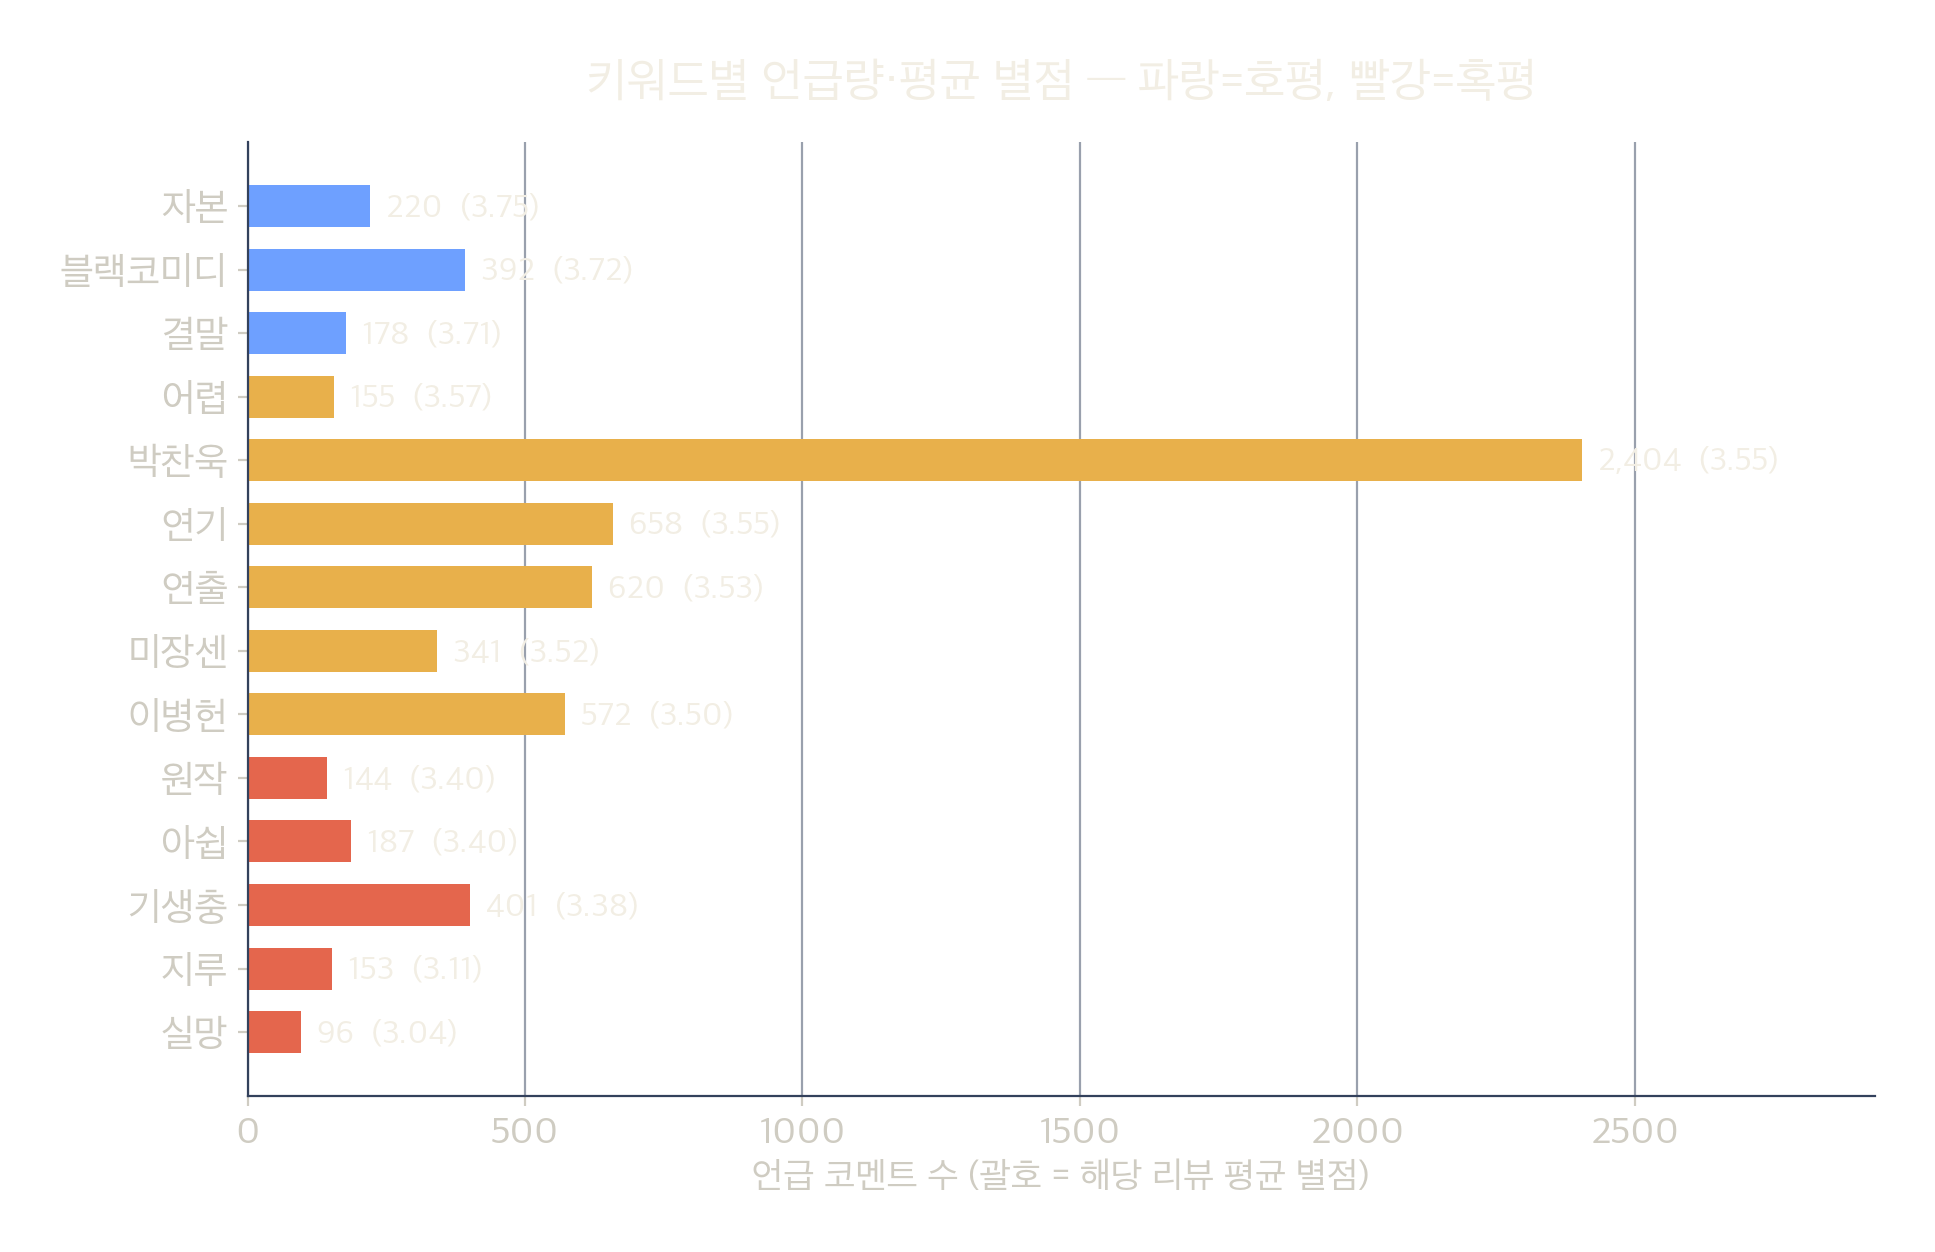
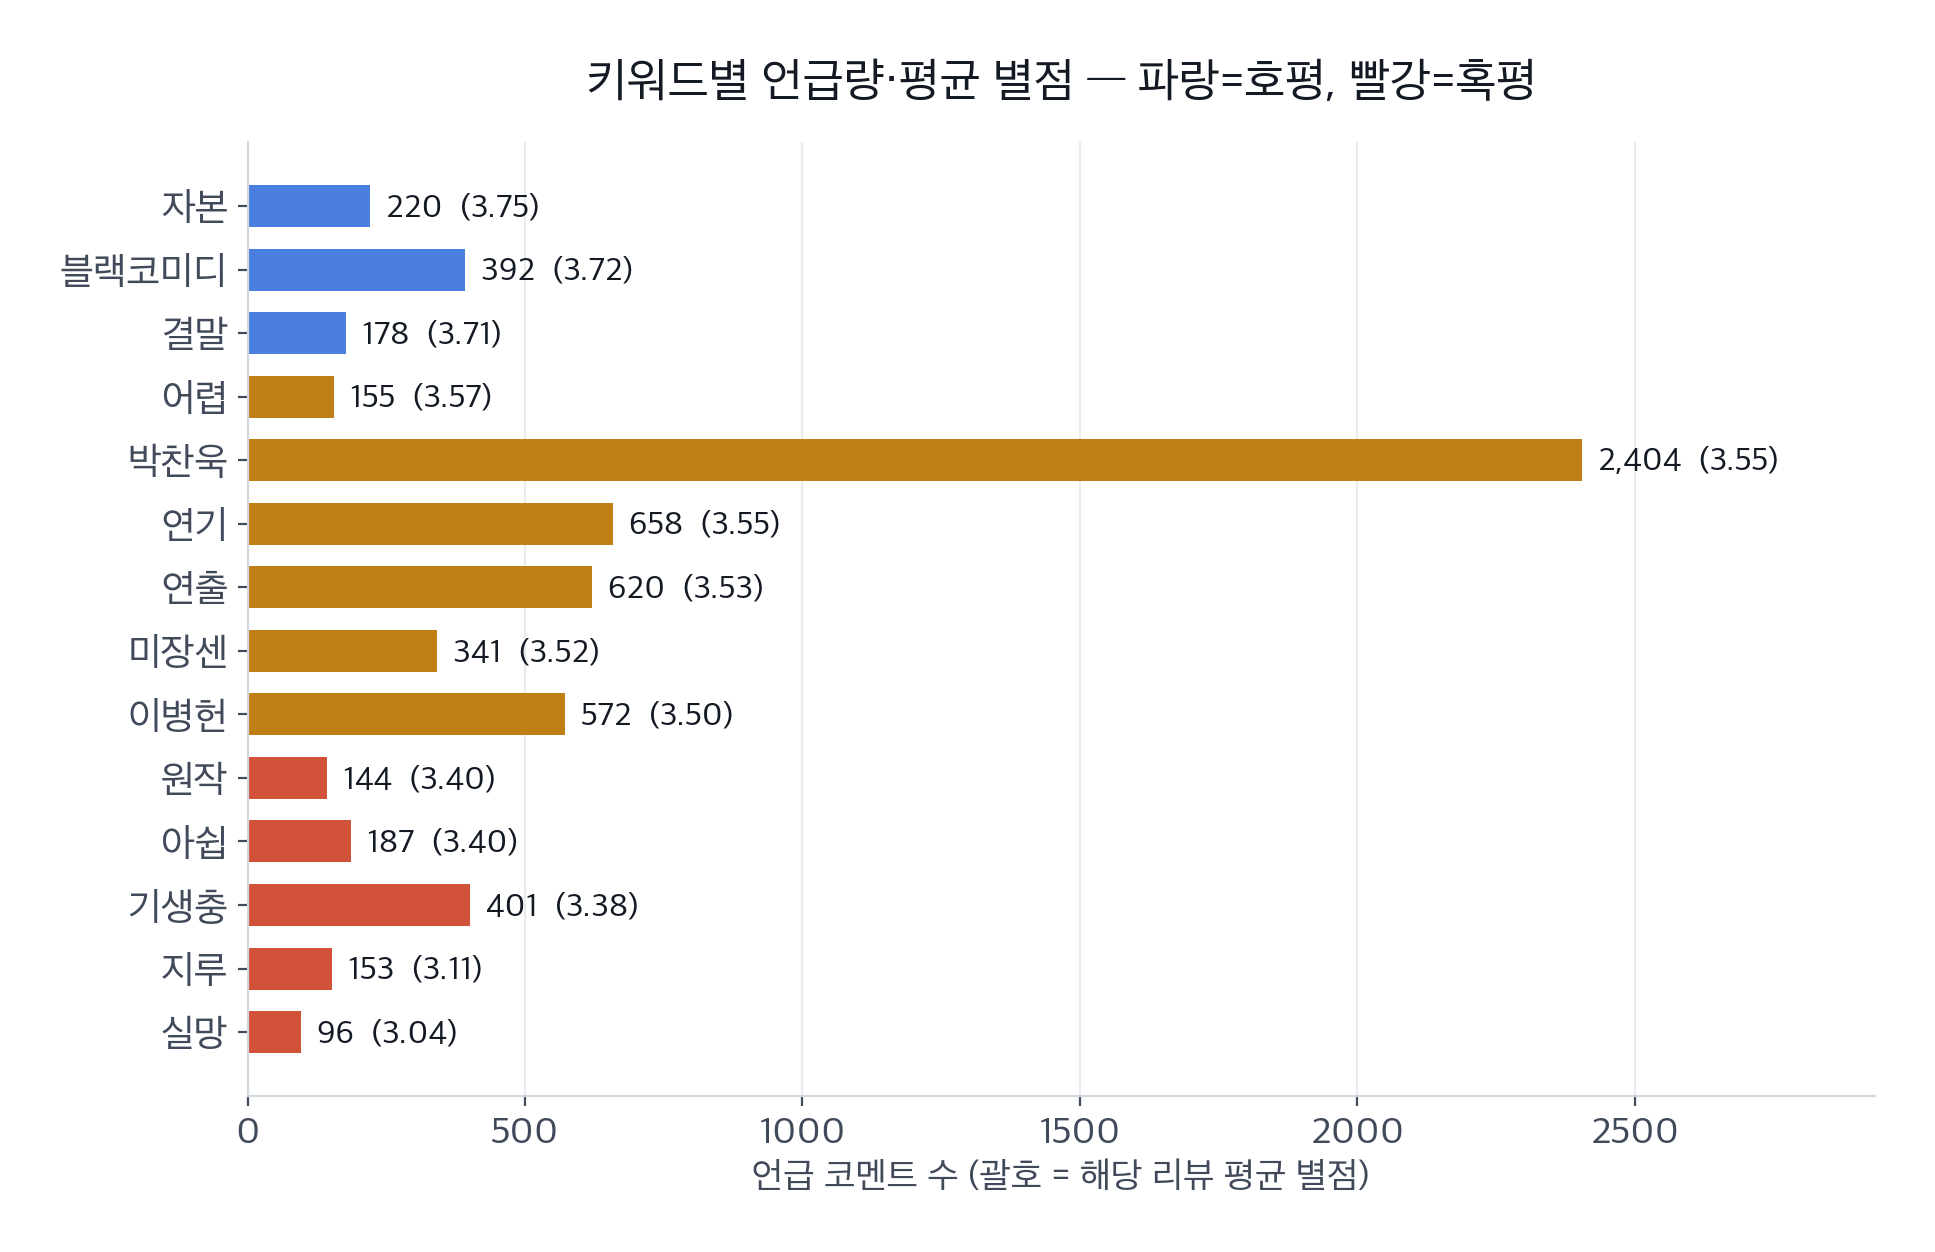
Switch week-05 deck to light content slides with new cover poster
- Replace cover background poster with 어쩔수가없다.jpeg (center 50%/cover)
- Light #f6f7f9 background for slides 2-16 with dark ink/muted/line tokens
- Darken accent/blue/red for text contrast; keep gold chips and statement
- Match film strips, topbar, bottombar and grain to the light slides
- Regenerate charts with a --light palette for the new background

diff --git a/docs/week-05-no-other-choice-reviews/index.html b/docs/week-05-no-other-choice-reviews/index.html
@@ -15,6 +15,7 @@
     --film:#0d1524; --film-2:#0a111d; --panel:#151f31; --panel-2:#101826;
     --ink:#f4f0e6; --ink-soft:#cfccc2; --muted:#8f97a8; --line:rgba(255,255,255,.13);
     --accent:#e8b04b;        /* 골드 — 메인 포인트 */
+    --accent-solid:#e8b04b;  /* 골드 — 칩·배지 배경 */
     --blue:#6ea0ff;          /* 호평/긍정 */
     --red:#e4664d;           /* 혹평/부정 */
     --strip:38px;
@@ -49,10 +50,30 @@
   .progress{position:fixed;top:0;left:0;height:3px;background:linear-gradient(90deg,var(--accent),var(--red));z-index:50;width:0}
   .hint{position:fixed;bottom:14px;left:50%;transform:translateX(-50%);z-index:40;font-family:var(--mono);font-size:12px;color:var(--muted);letter-spacing:.12em}
 
+  /* light chrome while a content slide is active */
+  .film,.topbar,.bottombar{transition:background .45s ease,color .45s ease,border-color .45s ease}
+  body.light .topbar{color:#6f7887;border-bottom-color:rgba(20,26,36,.13);background:linear-gradient(#f6f7f9 70%,rgba(246,247,249,0))}
+  body.light .topbar .dot{background:#c8402a}
+  body.light .bottombar{color:#6f7887}
+  body.light .counter b{color:#141a24}
+  body.light .hint{color:#6f7887}
+  body.light .film{background:#e9edf3;border-color:rgba(20,26,36,.07)}
+  body.light .film::before{background-image:repeating-linear-gradient(to bottom,rgba(20,26,36,.20) 0 14px,transparent 14px 38px)}
+  body.light .progress{background:linear-gradient(90deg,#c08a2f,#c8402a)}
+  body.light::before{opacity:.05;mix-blend-mode:multiply}
+  body.light::after{background:radial-gradient(130% 95% at 50% 40%,transparent 70%,rgba(15,23,42,.07) 100%)}
+
   .stage{position:absolute;inset:0}
   .slide{position:absolute;inset:0;display:flex;flex-direction:column;justify-content:center;
     padding:70px calc(var(--strip) + 4.5vw) 66px;opacity:0;visibility:hidden;overflow:hidden;transition:opacity .5s ease,visibility .5s}
   .slide.active{opacity:1;visibility:visible}
+  /* light slides (2–16) — cover keeps the dark poster */
+  .slide:not(.poster-bg){background:#f6f7f9;color:var(--ink);
+    --ink:#141a24; --ink-soft:#3d4655; --muted:#6f7887; --line:rgba(20,26,36,.13);
+    --panel:#ffffff; --panel-2:#eef1f6;
+    --accent:#a8690c; --accent-solid:#e8b04b;
+    --blue:#2f6bd8; --red:#c8402a;}
+  .slide:not(.poster-bg) .pcard{box-shadow:0 1px 2px rgba(16,24,40,.06)}
   .wrap{max-width:1360px;width:100%;margin:0 auto}
   [data-rise]{opacity:0;transform:translateY(24px)}
 
@@ -62,7 +83,7 @@
   .e-a{color:var(--accent)} .e-b{color:var(--blue)} .e-r{color:var(--red)}
   .scene{font-family:var(--mono);font-size:13px;letter-spacing:.24em;text-transform:uppercase;color:var(--accent)}
   .scene b{color:var(--muted);font-weight:400}
-  .chip{display:inline-flex;align-items:center;gap:9px;background:var(--accent);color:#0d1524;font-family:var(--display);
+  .chip{display:inline-flex;align-items:center;gap:9px;background:var(--accent-solid);color:#0d1524;font-family:var(--display);
     font-weight:700;font-size:14px;letter-spacing:.1em;text-transform:uppercase;padding:9px 18px;border-radius:999px}
   .chip .reel{width:16px;height:16px}
   .sub{font-family:var(--sans);font-weight:400;font-size:clamp(19px,1.85vw,25px);line-height:1.5;color:var(--ink-soft)}
@@ -72,7 +93,7 @@
     background-size:24px 14px;background-repeat:repeat-x}
 
   /* cover — full-bleed poster */
-  .poster-bg{background:var(--film-2) url("assets/poster.jpg") center 24%/cover no-repeat;padding-left:calc(var(--strip) + 6vw)}
+  .poster-bg{background:var(--film-2) url("assets/poster-cover.jpg") center 50%/cover no-repeat;padding-left:calc(var(--strip) + 6vw)}
   .poster-bg::before{content:"";position:absolute;inset:0;z-index:0;
     background:linear-gradient(90deg,rgba(7,11,20,.95) 0%,rgba(7,11,20,.80) 42%,rgba(7,11,20,.35) 72%,rgba(7,11,20,.55) 100%)}
   .poster-bg .wrap{position:relative;z-index:1}
@@ -85,7 +106,7 @@
   /* index row */
   .idxrow{display:grid;grid-template-columns:repeat(4,1fr);gap:28px;position:relative;margin-top:8px}
   .idxrow::before{content:"";position:absolute;left:0;right:0;top:23px;height:1px;background:var(--line)}
-  .idxdot{width:46px;height:46px;border-radius:50%;background:var(--accent);color:#0d1524;display:grid;place-items:center;
+  .idxdot{width:46px;height:46px;border-radius:50%;background:var(--accent-solid);color:#0d1524;display:grid;place-items:center;
     font-family:var(--display);font-weight:800;font-size:15px;position:relative;z-index:1}
   .idxcol .lbl{font-family:var(--display);font-weight:700;font-size:15px;letter-spacing:.05em;color:var(--accent);margin:20px 0 9px;text-transform:uppercase}
   .idxcol h3{font-family:var(--display);font-weight:700;font-size:26px;margin-bottom:10px}
@@ -133,7 +154,7 @@
   ul.clean li::before{content:"\25B8";position:absolute;left:0;color:var(--accent)}
   ul.clean b{color:var(--ink)}
 
-  .statement{background:linear-gradient(90deg,var(--accent),#c98a2f);color:#0d1524;padding:26px 30px;border-radius:9px;
+  .statement{background:linear-gradient(90deg,var(--accent-solid),#c98a2f);color:#0d1524;padding:26px 30px;border-radius:9px;
     font-family:var(--display);font-weight:700;font-size:clamp(19px,1.9vw,25px);line-height:1.4}
 
   .quote{border-left:4px solid var(--accent);padding:6px 0 6px 20px;margin-bottom:20px}
@@ -453,6 +474,7 @@
     const cur=slides[idx],nxt=slides[n];
     cur.classList.remove('active'); reset(cur);
     idx=n; nxt.classList.add('active'); reset(nxt); animate(nxt);
+    document.body.classList.toggle('light', idx>0);
     progress.style.width=(idx/(total-1)*100)+'%';
     counter.innerHTML='<b>'+pad(idx+1)+'</b> / '+pad(total);
     setTimeout(()=>busy=false,reduce?50:240);

diff --git a/week-05-no-other-choice-reviews/make_charts.py b/week-05-no-other-choice-reviews/make_charts.py
@@ -1,10 +1,10 @@
 #!/usr/bin/env python3
 """왓챠피디아 리뷰 JSON에서 발표용 차트 이미지를 생성한다.
 
-다크(필름) 배경 위에 얹도록 투명 배경 + 라이트 텍스트로 렌더한다.
+투명 배경 차트를 렌더하며, 슬라이드 배경에 맞춰 다크/라이트 팔레트를 고른다.
 
 사용법:
-    python3 make_charts.py <reviews.json> [out_dir]
+    python3 make_charts.py <reviews.json> [out_dir] [--light]
 """
 import json
 import sys
@@ -17,15 +17,32 @@ matplotlib.use("Agg")
 import matplotlib.pyplot as plt
 from matplotlib import font_manager
 
-# ---- palette (dark / film) ----------------------------------------------
-INK = "#f2eee4"
-INK_SOFT = "#cfccc2"
-MUTED = "#9aa2b1"
-LINE = "#33415c"
-GOLD = "#e8b04b"
-BLUE = "#6ea0ff"
-RED = "#e4664d"
-ORANGE = "#e8965a"
+# ---- palette ------------------------------------------------------------
+ARGV = [a for a in sys.argv if a != "--light"]
+LIGHT = len(ARGV) != len(sys.argv)
+
+if LIGHT:
+    BG = "#f6f7f9"
+    INK = "#141a24"
+    INK_SOFT = "#414a5a"
+    MUTED = "#77808f"
+    LINE = "#d2d8e2"
+    GOLD = "#c07f14"
+    BLUE = "#4a7fe0"
+    RED = "#d15238"
+    ORANGE = "#d9814a"
+    BAR_GRAY = "#c7d0de"
+else:
+    BG = "#0d1524"
+    INK = "#f2eee4"
+    INK_SOFT = "#cfccc2"
+    MUTED = "#9aa2b1"
+    LINE = "#33415c"
+    GOLD = "#e8b04b"
+    BLUE = "#6ea0ff"
+    RED = "#e4664d"
+    ORANGE = "#e8965a"
+    BAR_GRAY = "#3a4a68"
 
 for fam in ["Apple SD Gothic Neo", "AppleGothic", "NanumGothic", "Noto Sans CJK KR"]:
     try:
@@ -55,8 +72,8 @@ def save(fig, out):
 
 
 # ---- load ----------------------------------------------------------------
-src = Path(sys.argv[1] if len(sys.argv) > 1 else "watcha_no_other_choice_reviews.json")
-out_dir = Path(sys.argv[2] if len(sys.argv) > 2 else "reports")
+src = Path(ARGV[1] if len(ARGV) > 1 else "watcha_no_other_choice_reviews.json")
+out_dir = Path(ARGV[2] if len(ARGV) > 2 else "reports")
 out_dir.mkdir(parents=True, exist_ok=True)
 data = json.loads(src.read_text(encoding="utf-8"))
 reviews = data["reviews"]
@@ -104,7 +121,7 @@ nice = ["긍정 3.5+", "중립 2.5–3.0", "부정 <2.5"]
 cols = [BLUE, GOLD, RED]
 fig, ax = plt.subplots(figsize=(8.2, 6.4))
 w, t, at = ax.pie(sizes, colors=cols, startangle=90, counterclock=False,
-                  wedgeprops=dict(width=0.36, edgecolor="#0d1524", linewidth=3),
+                  wedgeprops=dict(width=0.36, edgecolor=BG, linewidth=3),
                   autopct=lambda p: f"{p:.1f}%", pctdistance=0.79,
                   textprops=dict(color=INK, fontsize=14, fontweight="bold"))
 ax.text(0, 0.08, f"{agg['avg_rating']}", ha="center", va="center", fontsize=48, color=INK, fontweight="bold")
@@ -123,7 +140,7 @@ months = sorted(m for m in by_month if len(by_month[m]) >= 30)
 cnts = [len(by_month[m]) for m in months]
 avgs = [statistics.mean(by_month[m]) for m in months]
 fig, ax = plt.subplots(figsize=(12, 5.6))
-ax.bar(months, cnts, color="#3a4a68", width=0.62, label="코멘트 수")
+ax.bar(months, cnts, color=BAR_GRAY, width=0.62, label="코멘트 수")
 ax.set_ylabel("코멘트 수", color=INK_SOFT, fontsize=14)
 ax.tick_params(axis="x", rotation=40)
 ax2 = ax.twinx()
